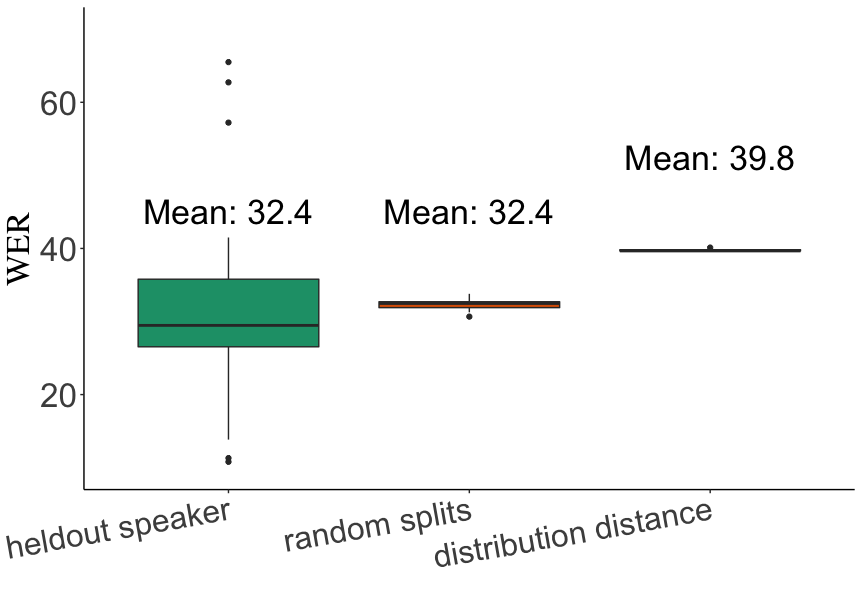
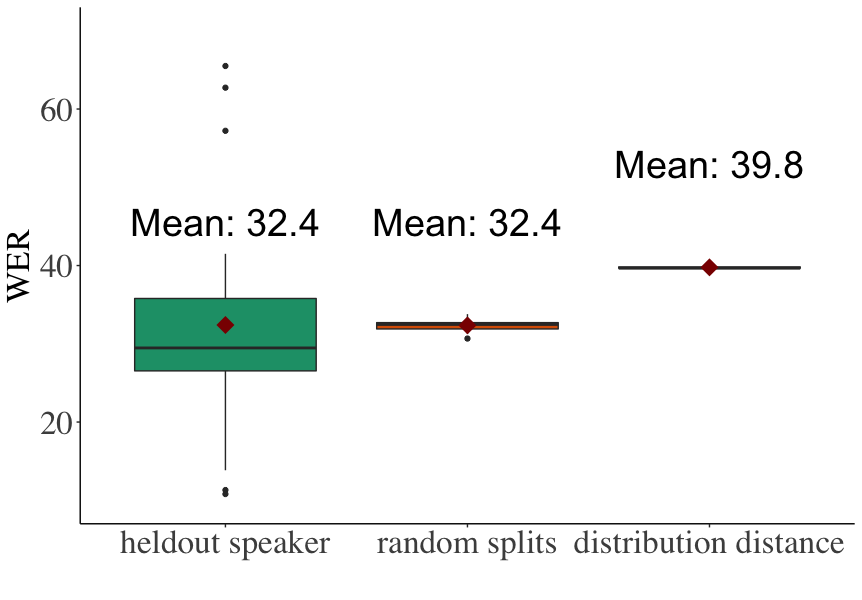
code

diff --git a/code/plot.py b/code/plot.py
@@ -1,0 +1,54 @@
+import matplotlib.pyplot as plt
+import sys
+import re
+import numpy as np
+from matplotlib.lines import Line2D
+
+
+f = open(sys.argv[1])
+randoms = []
+people = []
+feats = []
+dista = []
+featlabels = []
+f.readline()
+for line in f:
+    parts = line.rstrip().split("\t")
+    if parts[-1] == "random_different":
+        randoms.append(float(parts[3]))
+    elif parts[-1] == "heldout_speaker":
+        people.append(float(parts[3]))
+    elif parts[-1] == "distance":
+        dista.append(float(parts[3]))
+    else:
+        feats.append(float(parts[3]))
+f.close()
+
+markies = ["x", "+", "^", "<", ">", "v"]
+colories = ["red", "purple", "brown", "blue", "green", "orange"]
+featlabels = ["duration", "pitch", "intensity", "perplexity", "#words", "#tokens"]  
+
+fig, ax = plt.subplots()
+plt.boxplot([people, randoms, dista], patch_artist=True, boxprops=dict(facecolor="blue"), flierprops={'marker': '.', 'markersize':4})
+plt.plot ([1]*len(people), people, '.', color="blue", markersize=4)
+plt.plot([1], np.mean(people), '.', color='black', markersize=10)
+plt.plot ([2]*len(randoms), randoms, '.', color="grey", markersize=4)
+plt.plot([2], np.mean(randoms), '.', color='black', markersize=10)
+plt.plot ([3]*len(dista), dista, '.', color="pink", markersize=4)
+plt.plot([3], np.mean(dista), '.', color='black', markersize=10)
+for j in range(len(feats)):
+    plt.plot([4], feats[j], markies[j], color=colories[j])
+
+ax.set_xticks([1, 2, 3, 4])
+ax.set_xticklabels(["speaker", "random", "adversarial", "heuristic"])
+ax.set_ylabel("WER")
+
+
+legend_elements = []
+for i in range(len(markies)):
+    le =  Line2D([0], [0], marker=markies[i], color=colories[i], label=featlabels[i], markerfacecolor=colories[i], markersize=4, linestyle='')
+    legend_elements.append(le)
+
+ax.legend(handles=legend_elements)
+
+plt.show()

diff --git a/code/model.py b/code/model.py
@@ -14,10 +14,11 @@ def normalize(df):
     return result
 
 
-data = pd.read_csv('data/wolof/wolof_regression.txt', sep = '\t')
+data = pd.read_csv('data/hupa/hupa_top_tier_regression.txt', sep = '\t')
 X = data[['Duration_ratio', 'Pitch_ratio', 'Intensity_ratio', 'PPL_ratio', 'Num_word_ratio', 'Word_type_ratio', 'OOV_ratio']]
 #X = normalize(X)
 X = MinMaxScaler().fit_transform(X)
+X = pd.DataFrame(X, columns = ['Duration_ratio', 'Pitch_ratio', 'Intensity_ratio', 'PPL_ratio', 'Num_word_ratio', 'Word_type_ratio', 'OOV_ratio'])
 X = sm.add_constant(X)
 new_data = X
 new_data['WER'] = data['WER']
